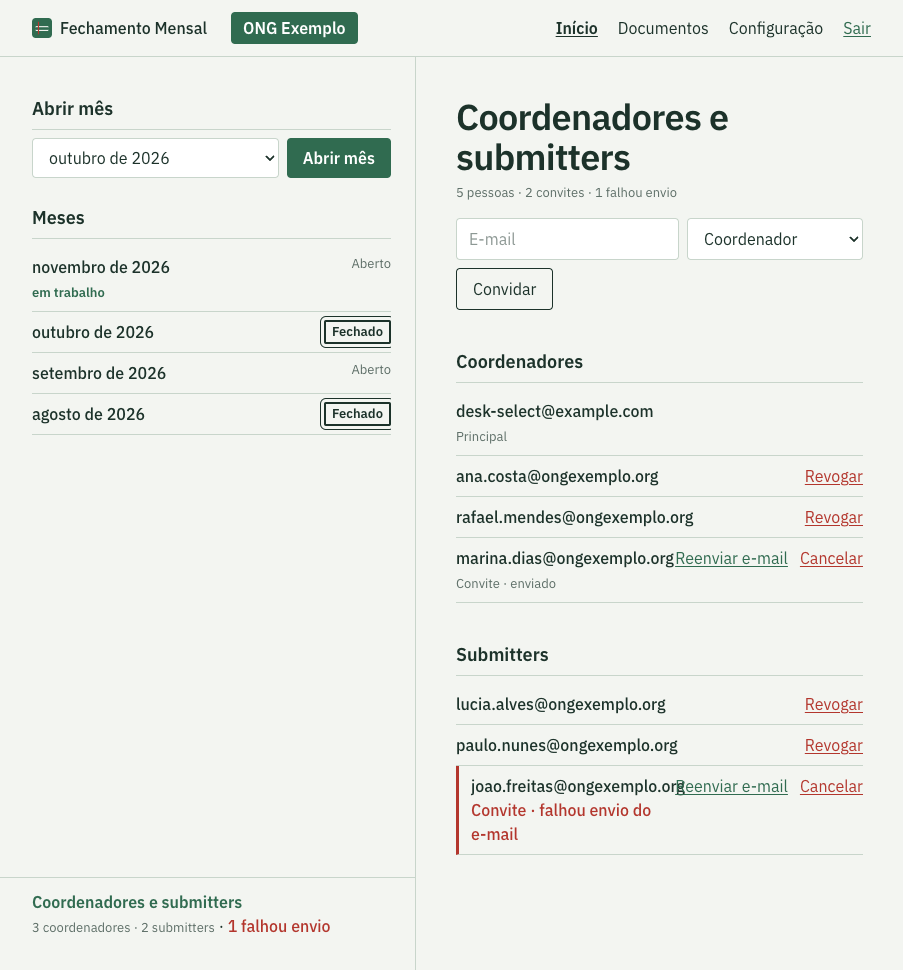
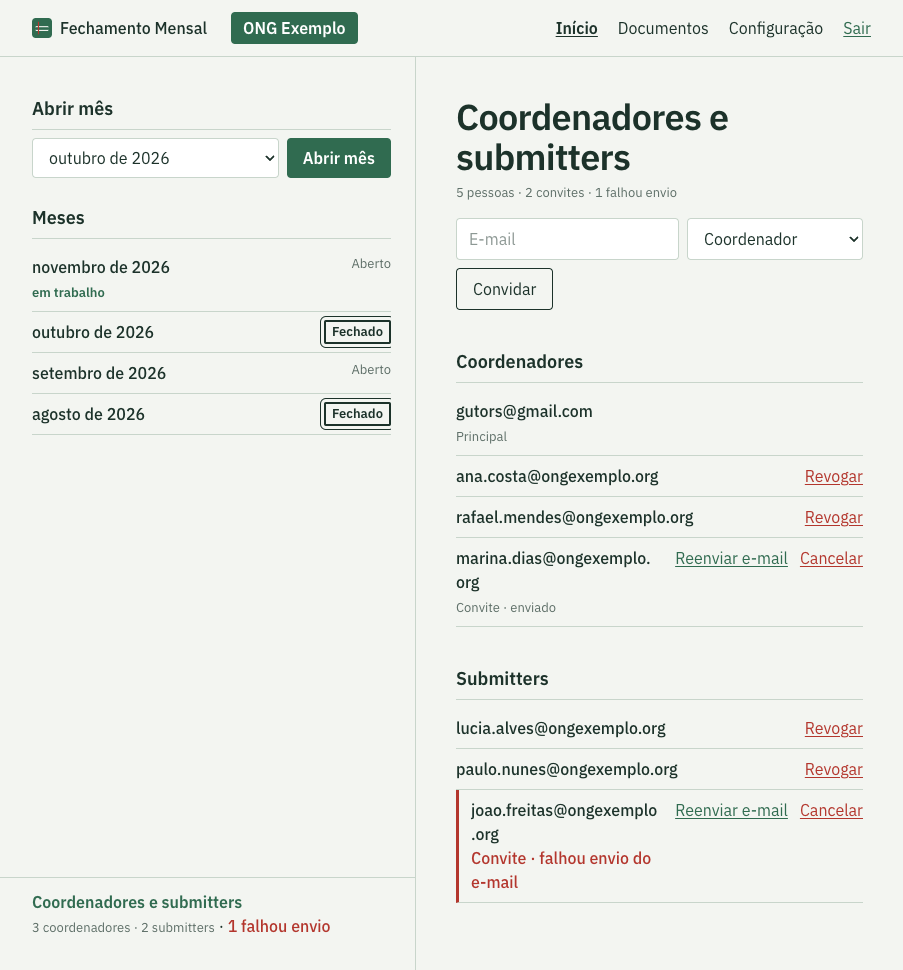
fix(home): wrap people-book emails so invite actions stay right
Match the people-desk capture: pending invite addresses wrap and Reenviar/Cancelar sit in a right column.

Changed region(s): [[0.4961, 0.5876, 0.9612, 0.9278], [0.4961, 0.4021, 0.7132, 0.433], [0.7132, 0.5567, 0.7442, 0.5876]]

diff --git a/app/assets/tailwind/application.css b/app/assets/tailwind/application.css
@@ -387,6 +387,10 @@
     border-left: 3px solid var(--color-margem);
   }
 
+  .person-entry .cell-label {
+    overflow-wrap: anywhere;
+  }
+
   .row-actions {
     display: flex;
     flex-wrap: wrap;

diff --git a/.specs/features/home-desk-select/checks.md b/.specs/features/home-desk-select/checks.md
@@ -198,7 +198,7 @@ Proof: `bin/rspec spec/requests/sessions_spec.rb -e "unauthenticated GET / respo
 ## Handoff
 
 - **Settled mid-build:** none
-- **Dispatched:**
+- **Dispatched:** Verifier at `b459ac1` (`2318ac0..b459ac1`); screens round 1 at `b459ac1`
 - **Boundary:**
 - **Abandoned:** none
-- **Walked:** Ambiente local `desk-select@example.com` on `GET /` at 903×970: header button ONG Exemplo (Instituto Água Viva in the list), Abrir mês on one row, Meses novembro de 2026 `em trabalho` Aberto plus outubro/agosto Fechado and setembro Aberto, pin `3 coordenadores · 2 submitters · 1 falhou envio`, right pane novembro de 2026 / `2026-11` / Continuar / Excluir / `2 pagamentos com documento faltante.` / Contas Extrato Presente then Falta. Saved `captures/month-desk.running.png`. Header list open: ONG Exemplo `aria-current` then Instituto Água Viva. Saved `captures/org-list.running.png`. `GET /?year_month=2026-10`: stamp `Mês fechado`, Continuar, no Excluir. Saved `captures/closed-month.running.png`. `GET /?desk=people`: h1 `Coordenadores e submitters`, invite form (E-mail, Coordenador/Submitter, Convidar), Coordenadores then Submitters in insertion order, Principal without Revogar, `Convite · enviado` and `Convite · falhou envio do e-mail` with Reenviar/Cancelar. Saved `captures/people-desk.running.png`. Meses row stays on `/?year_month=`; pin is `GET /?desk=people`; Excluir only on the selected never-sent right desk. One-org quiet and submitter home are request specs.
+- **Walked:** Ambiente local `gutors@gmail.com` on `GET /` at 903×970: header button ONG Exemplo (Instituto Água Viva in the list), Abrir mês on one row, Meses novembro de 2026 `em trabalho` Aberto plus outubro/agosto Fechado and setembro Aberto, pin `3 coordenadores · 2 submitters · 1 falhou envio`, right pane novembro de 2026 / `2026-11` / Continuar / Excluir / `2 pagamentos com documento faltante.` / Contas Extrato Presente then Falta. Saved `captures/month-desk.running.png`. Header list open: ONG Exemplo `aria-current` then Instituto Água Viva. Saved `captures/org-list.running.png`. `GET /?year_month=2026-10`: stamp `Mês fechado`, Continuar, no Excluir. Saved `captures/closed-month.running.png`. `GET /?desk=people`: h1 `Coordenadores e submitters`, invite form (E-mail, Coordenador/Submitter, Convidar), Coordenadores then Submitters in insertion order, Principal without Revogar, `Convite · enviado` and `Convite · falhou envio do e-mail` with Reenviar/Cancelar. Saved `captures/people-desk.running.png`. Meses row stays on `/?year_month=`; pin is `GET /?desk=people`; Excluir only on the selected never-sent right desk. One-org quiet and submitter home are request specs.
